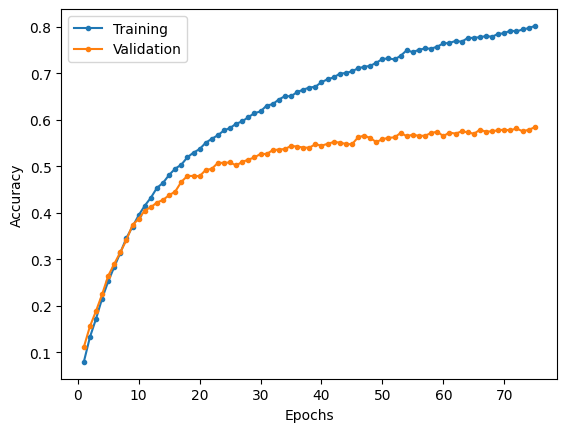
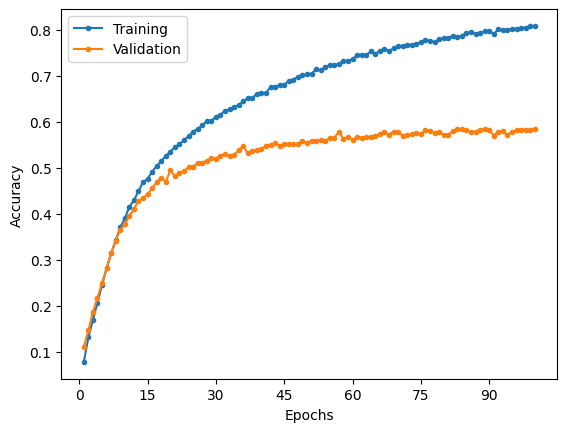
Adds updated training results.

diff --git a/CNN/ResNet/README.md b/CNN/ResNet/README.md
@@ -468,7 +468,7 @@ Similar to all the preceding models, ResNet performs with close the human accura
 
 ### Results
 
-Training over 75 epochs with a learning rate of 1e-4 and batch size of 64.
+Training over 100 epochs with a learning rate of 1e-4, weight decay of 0.01 and batch size of 64.
 
 |                         Loss                         |                           Accuracy                           |
 | :--------------------------------------------------: | :----------------------------------------------------------: |
@@ -476,111 +476,111 @@ Training over 75 epochs with a learning rate of 1e-4 and batch size of 64.
 
 |              | Training | Validation | Testing |
 | :----------: | :------: | :--------: | :-----: |
-|     Loss     |  0.7121  |   1.7560   | 1.4217  |
-| Accuracy (%) |  80.17   |   58.39    |  64.69  |
+|     Loss     |  0.7017  |   1.6893   | 1.3544  |
+| Accuracy (%) |  80.81   |   58.53    |  65.26  |
 
 |     Class     | Training Precision | Validation Precision | Testing Precision | Training Recall | Validation Recall | Testing Recall | Training F1 Score | Validation F1 Score | Testing F1 Score |
 | :-----------: | :----------------: | :------------------: | :---------------: | :-------------: | :---------------: | :------------: | :---------------: | :-----------------: | :--------------: |
-|     apple     |       0.8567       |        0.8197        |      0.9697       |     0.8815      |      0.6494       |     0.6400     |      0.8689       |       0.7246        |      0.7711      |
-| aquarium_fish |       0.8650       |        0.5672        |      0.6308       |     0.8698      |      0.8201       |     0.8200     |      0.8674       |       0.6706        |      0.7130      |
-|     baby      |       0.7912       |        0.4367        |      0.4825       |     0.7865      |      0.6329       |     0.6900     |      0.7889       |       0.5168        |      0.5679      |
-|     bear      |       0.7147       |        0.3706        |      0.5000       |     0.6847      |      0.4371       |     0.4300     |      0.6994       |       0.4011        |      0.4624      |
-|    beaver     |       0.7584       |        0.3502        |      0.4222       |     0.7584      |      0.5278       |     0.5700     |      0.7584       |       0.4211        |      0.4851      |
-|      bed      |       0.8018       |        0.5596        |      0.5391       |     0.8262      |      0.6279       |     0.6900     |      0.8138       |       0.5918        |      0.6053      |
-|      bee      |       0.8227       |        0.7822        |      0.8281       |     0.8156      |      0.5163       |     0.5300     |      0.8191       |       0.6220        |      0.6463      |
-|    beetle     |       0.8387       |        0.5892        |      0.6907       |     0.7903      |      0.6374       |     0.6700     |      0.8138       |       0.6124        |      0.6802      |
-|    bicycle    |       0.8519       |        0.6822        |      0.8211       |     0.8470      |      0.5986       |     0.7800     |      0.8494       |       0.6377        |      0.8000      |
-|    bottle     |       0.8311       |        0.8539        |      0.8406       |     0.8564      |      0.5507       |     0.5800     |      0.8435       |       0.6696        |      0.6864      |
-|     bowl      |       0.7591       |        0.3935        |      0.4563       |     0.6970      |      0.3588       |     0.4700     |      0.7267       |       0.3754        |      0.4631      |
-|      boy      |       0.7744       |        0.3871        |      0.4234       |     0.7056      |      0.4286       |     0.4700     |      0.7384       |       0.4068        |      0.4455      |
-|    bridge     |       0.8480       |        0.5689        |      0.6124       |     0.8158      |      0.6013       |     0.7900     |      0.8316       |       0.5846        |      0.6900      |
-|      bus      |       0.7744       |        0.6383        |      0.6579       |     0.7537      |      0.5521       |     0.5000     |      0.7639       |       0.5921        |      0.5682      |
-|   butterfly   |       0.8661       |        0.6270        |      0.6304       |     0.8588      |      0.5411       |     0.5800     |      0.8624       |       0.5809        |      0.6042      |
-|     camel     |       0.8163       |        0.7525        |      0.7568       |     0.7994      |      0.4720       |     0.5600     |      0.8077       |       0.5802        |      0.6437      |
-|      can      |       0.8230       |        0.5864        |      0.6792       |     0.8064      |      0.6169       |     0.7200     |      0.8146       |       0.6013        |      0.6990      |
-|    castle     |       0.8534       |        0.6626        |      0.8721       |     0.8366      |      0.7448       |     0.7500     |      0.8450       |       0.7013        |      0.8065      |
-|  caterpillar  |       0.7738       |        0.4774        |      0.6322       |     0.7955      |      0.5175       |     0.5500     |      0.7845       |       0.4966        |      0.5882      |
-|    cattle     |       0.7972       |        0.5476        |      0.6522       |     0.7949      |      0.4792       |     0.6000     |      0.7961       |       0.5111        |      0.6250      |
-|     chair     |       0.8631       |        0.8073        |      0.8506       |     0.8729      |      0.6027       |     0.7400     |      0.8680       |       0.6902        |      0.7914      |
-|  chimpanzee   |       0.8141       |        0.6933        |      0.8387       |     0.8353      |      0.6753       |     0.7800     |      0.8245       |       0.6842        |      0.8083      |
-|     clock     |       0.8902       |        0.5850        |      0.7204       |     0.8380      |      0.6056       |     0.6700     |      0.8633       |       0.5952        |      0.6943      |
-|     cloud     |       0.7619       |        0.6168        |      0.7596       |     0.8612      |      0.7007       |     0.7900     |      0.8085       |       0.6561        |      0.7745      |
-|   cockroach   |       0.8610       |        0.7400        |      0.7524       |     0.8876      |      0.7708       |     0.7900     |      0.8741       |       0.7551        |      0.7707      |
-|     couch     |       0.7672       |        0.4043        |      0.4745       |     0.7500      |      0.5278       |     0.6500     |      0.7585       |       0.4578        |      0.5485      |
-|     crab      |       0.7393       |        0.5500        |      0.6977       |     0.7611      |      0.4783       |     0.6000     |      0.7500       |       0.5116        |      0.6452      |
-|   crocodile   |       0.7597       |        0.3478        |      0.3931       |     0.7746      |      0.5517       |     0.5700     |      0.7671       |       0.4267        |      0.4653      |
-|      cup      |       0.7978       |        0.6774        |      0.7419       |     0.8090      |      0.5833       |     0.6900     |      0.8033       |       0.6269        |      0.7150      |
-|   dinosaur    |       0.8192       |        0.4479        |      0.6075       |     0.8016      |      0.5748       |     0.6500     |      0.8103       |       0.5034        |      0.6280      |
-|    dolphin    |       0.7982       |        0.5446        |      0.5496       |     0.7910      |      0.6667       |     0.7200     |      0.7946       |       0.5995        |      0.6234      |
-|   elephant    |       0.7438       |        0.5914        |      0.6961       |     0.7826      |      0.7097       |     0.7100     |      0.7627       |       0.6452        |      0.7030      |
-|   flatfish    |       0.7803       |        0.6395        |      0.7429       |     0.7670      |      0.3716       |     0.5200     |      0.7736       |       0.4701        |      0.6118      |
-|    forest     |       0.7310       |        0.4722        |      0.5280       |     0.7642      |      0.5743       |     0.6600     |      0.7472       |       0.5183        |      0.5867      |
-|      fox      |       0.8343       |        0.7000        |      0.7579       |     0.8177      |      0.6107       |     0.7200     |      0.8259       |       0.6523        |      0.7385      |
-|     girl      |       0.7319       |        0.5050        |      0.4545       |     0.6963      |      0.3377       |     0.3500     |      0.7137       |       0.4048        |      0.3955      |
-|    hamster    |       0.8493       |        0.7500        |      0.8205       |     0.8592      |      0.6792       |     0.6400     |      0.8542       |       0.7129        |      0.7191      |
-|     house     |       0.7826       |        0.4656        |      0.6356       |     0.7649      |      0.5986       |     0.7500     |      0.7736       |       0.5238        |      0.6881      |
-|   kangaroo    |       0.7708       |        0.4313        |      0.4634       |     0.7801      |      0.5417       |     0.5700     |      0.7754       |       0.4802        |      0.5112      |
-|   keyboard    |       0.8560       |        0.7426        |      0.8352       |     0.8726      |      0.7266       |     0.7600     |      0.8642       |       0.7345        |      0.7958      |
-|     lamp      |       0.7556       |        0.4437        |      0.4560       |     0.7452      |      0.4820       |     0.5700     |      0.7503       |       0.4621        |      0.5067      |
-|  lawn_mower   |       0.8642       |        0.7794        |      0.8764       |     0.8768      |      0.6667       |     0.7800     |      0.8705       |       0.7186        |      0.8254      |
-|    leopard    |       0.8251       |        0.8000        |      0.6548       |     0.8203      |      0.4903       |     0.5500     |      0.8227       |       0.6080        |      0.5978      |
-|     lion      |       0.8216       |        0.6719        |      0.7634       |     0.8363      |      0.7866       |     0.7100     |      0.8289       |       0.7247        |      0.7358      |
-|    lizard     |       0.7556       |        0.3702        |      0.3913       |     0.7015      |      0.4061       |     0.4500     |      0.7276       |       0.3873        |      0.4186      |
-|    lobster    |       0.7527       |        0.4011        |      0.4818       |     0.7507      |      0.5407       |     0.5300     |      0.7517       |       0.4606        |      0.5048      |
-|      man      |       0.7544       |        0.5040        |      0.6000       |     0.7286      |      0.4200       |     0.4800     |      0.7413       |       0.4582        |      0.5333      |
-|  maple_tree   |       0.7353       |        0.7292        |      0.5814       |     0.7246      |      0.4516       |     0.5000     |      0.7299       |       0.5578        |      0.5376      |
-|  motorcycle   |       0.8576       |        0.8244        |      0.8958       |     0.8679      |      0.6467       |     0.8600     |      0.8627       |       0.7248        |      0.8776      |
-|   mountain    |       0.8108       |        0.6667        |      0.8280       |     0.8197      |      0.5970       |     0.7700     |      0.8152       |       0.6299        |      0.7979      |
-|     mouse     |       0.7710       |        0.3298        |      0.3761       |     0.7228      |      0.4773       |     0.4400     |      0.7461       |       0.3901        |      0.4055      |
-|   mushroom    |       0.8287       |        0.4824        |      0.6765       |     0.8427      |      0.5694       |     0.6900     |      0.8357       |       0.5223        |      0.6832      |
-|   oak_tree    |       0.7016       |        0.6071        |      0.5657       |     0.7394      |      0.5782       |     0.5600     |      0.7200       |       0.5923        |      0.5628      |
-|    orange     |       0.9139       |        0.6957        |      0.7692       |     0.9139      |      0.9143       |     0.9000     |      0.9139       |       0.7901        |      0.8295      |
-|    orchid     |       0.8710       |        0.7218        |      0.6972       |     0.8510      |      0.6358       |     0.7600     |      0.8609       |       0.6761        |      0.7273      |
-|     otter     |       0.7188       |        0.3041        |      0.4144       |     0.7087      |      0.3147       |     0.4600     |      0.7137       |       0.3093        |      0.4360      |
-|   palm_tree   |       0.8384       |        0.8689        |      0.9101       |     0.8674      |      0.6928       |     0.8100     |      0.8527       |       0.7709        |      0.8571      |
-|     pear      |       0.8279       |        0.6243        |      0.5714       |     0.8353      |      0.6807       |     0.7200     |      0.8316       |       0.6513        |      0.6372      |
-| pickup_truck  |       0.8394       |        0.7250        |      0.8427       |     0.8293      |      0.6988       |     0.7500     |      0.8343       |       0.7117        |      0.7937      |
-|   pine_tree   |       0.6875       |        0.5536        |      0.7051       |     0.7008      |      0.4460       |     0.5500     |      0.6941       |       0.4940        |      0.6180      |
-|     plain     |       0.7888       |        0.7167        |      0.8652       |     0.8447      |      0.6466       |     0.7700     |      0.8158       |       0.6798        |      0.8148      |
-|     plate     |       0.7890       |        0.5795        |      0.6739       |     0.8248      |      0.6036       |     0.6200     |      0.8065       |       0.5913        |      0.6458      |
-|     poppy     |       0.8676       |        0.6585        |      0.7447       |     0.8627      |      0.5664       |     0.7000     |      0.8652       |       0.6090        |      0.7216      |
-|   porcupine   |       0.7820       |        0.7021        |      0.6707       |     0.7775      |      0.6429       |     0.5500     |      0.7797       |       0.6712        |      0.6044      |
-|    possum     |       0.7872       |        0.4790        |      0.5600       |     0.7606      |      0.5517       |     0.5600     |      0.7736       |       0.5128        |      0.5600      |
-|    rabbit     |       0.7695       |        0.3707        |      0.4034       |     0.7493      |      0.4841       |     0.4800     |      0.7592       |       0.4199        |      0.4384      |
-|    raccoon    |       0.8410       |        0.8224        |      0.8630       |     0.8338      |      0.5828       |     0.6300     |      0.8374       |       0.6822        |      0.7283      |
-|      ray      |       0.7500       |        0.4638        |      0.5165       |     0.7793      |      0.4507       |     0.4700     |      0.7644       |       0.4571        |      0.4921      |
-|     road      |       0.8156       |        0.8013        |      0.8411       |     0.8513      |      0.7707       |     0.9000     |      0.8331       |       0.7857        |      0.8696      |
-|    rocket     |       0.8305       |        0.6412        |      0.6981       |     0.8401      |      0.6987       |     0.7400     |      0.8353       |       0.6687        |      0.7184      |
-|     rose      |       0.8300       |        0.6136        |      0.6694       |     0.8420      |      0.7105       |     0.8300     |      0.8359       |       0.6585        |      0.7411      |
-|      sea      |       0.8184       |        0.7661        |      0.7907       |     0.8412      |      0.6738       |     0.6800     |      0.8297       |       0.7170        |      0.7312      |
-|     seal      |       0.6936       |        0.5094        |      0.6538       |     0.6785      |      0.2030       |     0.3400     |      0.6860       |       0.2903        |      0.4474      |
-|     shark     |       0.7305       |        0.5817        |      0.5833       |     0.7649      |      0.4917       |     0.4200     |      0.7473       |       0.5329        |      0.4884      |
-|     shrew     |       0.7582       |        0.4067        |      0.4077       |     0.7278      |      0.4040       |     0.5300     |      0.7427       |       0.4053        |      0.4609      |
-|     skunk     |       0.8299       |        0.6685        |      0.8036       |     0.8203      |      0.7677       |     0.9000     |      0.8251       |       0.7147        |      0.8491      |
-|  skyscraper   |       0.8296       |        0.8130        |      0.8218       |     0.8510      |      0.6623       |     0.8300     |      0.8402       |       0.7299        |      0.8259      |
-|     snail     |       0.8452       |        0.6884        |      0.5851       |     0.8077      |      0.5864       |     0.5500     |      0.8260       |       0.6333        |      0.5670      |
-|     snake     |       0.7994       |        0.4066        |      0.4776       |     0.7863      |      0.5481       |     0.6400     |      0.7928       |       0.4669        |      0.5470      |
-|    spider     |       0.8076       |        0.4865        |      0.5873       |     0.7926      |      0.5806       |     0.7400     |      0.8000       |       0.5294        |      0.6549      |
-|   squirrel    |       0.7867       |        0.5872        |      0.5714       |     0.7889      |      0.4571       |     0.4400     |      0.7878       |       0.5141        |      0.4972      |
-|   streetcar   |       0.7452       |        0.5946        |      0.5905       |     0.7535      |      0.6154       |     0.6200     |      0.7493       |       0.6048        |      0.6049      |
-|   sunflower   |       0.9278       |        0.8243        |      0.9010       |     0.9252      |      0.8777       |     0.9100     |      0.9265       |       0.8502        |      0.9055      |
-| sweet_pepper  |       0.8367       |        0.6420        |      0.6087       |     0.8319      |      0.6710       |     0.5600     |      0.8343       |       0.6562        |      0.5833      |
-|     table     |       0.7944       |        0.4967        |      0.6026       |     0.7500      |      0.4750       |     0.4700     |      0.7716       |       0.4856        |      0.5281      |
-|     tank      |       0.8217       |        0.7864        |      0.8816       |     0.8453      |      0.5364       |     0.6700     |      0.8333       |       0.6378        |      0.7614      |
-|   telephone   |       0.8446       |        0.7676        |      0.8250       |     0.8496      |      0.6770       |     0.6600     |      0.8471       |       0.7195        |      0.7333      |
-|  television   |       0.7845       |        0.5959        |      0.6325       |     0.8232      |      0.5613       |     0.7400     |      0.8034       |       0.5781        |      0.6820      |
-|     tiger     |       0.8352       |        0.7410        |      0.7157       |     0.8375      |      0.7203       |     0.7300     |      0.8364       |       0.7305        |      0.7228      |
-|    tractor    |       0.8347       |        0.5375        |      0.7757       |     0.8209      |      0.6277       |     0.8300     |      0.8278       |       0.5791        |      0.8019      |
-|     train     |       0.7957       |        0.5655        |      0.5442       |     0.7861      |      0.4881       |     0.8000     |      0.7909       |       0.5240        |      0.6478      |
-|     trout     |       0.8390       |        0.6870        |      0.7383       |     0.8559      |      0.5882       |     0.7900     |      0.8474       |       0.6338        |      0.7633      |
-|     tulip     |       0.7935       |        0.6720        |      0.7568       |     0.7708      |      0.5563       |     0.5600     |      0.7820       |       0.6087        |      0.6437      |
-|    turtle     |       0.8058       |        0.4462        |      0.6538       |     0.7473      |      0.4531       |     0.5100     |      0.7755       |       0.4496        |      0.5730      |
-|   wardrobe    |       0.8740       |        0.7857        |      0.9022       |     0.9106      |      0.7746       |     0.8300     |      0.8919       |       0.7801        |      0.8646      |
-|     whale     |       0.7472       |        0.6842        |      0.6742       |     0.7946      |      0.6923       |     0.6000     |      0.7701       |       0.6882        |      0.6349      |
-|  willow_tree  |       0.7162       |        0.4286        |      0.4755       |     0.7486      |      0.5959       |     0.6800     |      0.7320       |       0.4986        |      0.5597      |
-|     wolf      |       0.8106       |        0.5796        |      0.6161       |     0.8174      |      0.6319       |     0.6900     |      0.8140       |       0.6047        |      0.6509      |
-|     woman     |       0.7479       |        0.4790        |      0.5385       |     0.7335      |      0.4191       |     0.4900     |      0.7406       |       0.4471        |      0.5131      |
-|     worm      |       0.7725       |        0.5369        |      0.6036       |     0.7956      |      0.6015       |     0.6700     |      0.7839       |       0.5674        |      0.6351      |
+|     apple     |       0.8644       |        0.7838        |      0.8966       |     0.8571      |      0.8112       |     0.7800     |      0.8608       |       0.7973        |      0.8342      |
+| aquarium_fish |       0.8512       |        0.6867        |      0.7849       |     0.8563      |      0.6867       |     0.7300     |      0.8537       |       0.6867        |      0.7565      |
+|     baby      |       0.7942       |        0.4525        |      0.5085       |     0.8035      |      0.5094       |     0.6000     |      0.7988       |       0.4793        |      0.5505      |
+|     bear      |       0.7173       |        0.3372        |      0.5086       |     0.7326      |      0.4603       |     0.5900     |      0.7249       |       0.3893        |      0.5463      |
+|    beaver     |       0.7657       |        0.4444        |      0.4275       |     0.7571      |      0.4658       |     0.5900     |      0.7614       |       0.4548        |      0.4958      |
+|      bed      |       0.8057       |        0.5779        |      0.5781       |     0.7966      |      0.6096       |     0.7400     |      0.8011       |       0.5933        |      0.6491      |
+|      bee      |       0.8627       |        0.6013        |      0.6952       |     0.8576      |      0.5644       |     0.7300     |      0.8601       |       0.5823        |      0.7122      |
+|    beetle     |       0.8248       |        0.5377        |      0.8140       |     0.8117      |      0.4634       |     0.7000     |      0.8182       |       0.4978        |      0.7527      |
+|    bicycle    |       0.8211       |        0.7518        |      0.8352       |     0.8309      |      0.6503       |     0.7600     |      0.8260       |       0.6974        |      0.7958      |
+|    bottle     |       0.8609       |        0.6037        |      0.6909       |     0.8366      |      0.6828       |     0.7600     |      0.8486       |       0.6408        |      0.7238      |
+|     bowl      |       0.7735       |        0.2402        |      0.3664       |     0.7388      |      0.3819       |     0.4800     |      0.7557       |       0.2949        |      0.4156      |
+|      boy      |       0.7357       |        0.3832        |      0.4409       |     0.7000      |      0.4267       |     0.4100     |      0.7174       |       0.4038        |      0.4249      |
+|    bridge     |       0.8129       |        0.5202        |      0.5865       |     0.7817      |      0.5590       |     0.7800     |      0.7970       |       0.5389        |      0.6695      |
+|      bus      |       0.7965       |        0.5556        |      0.6795       |     0.7762      |      0.5102       |     0.5300     |      0.7862       |       0.5319        |      0.5955      |
+|   butterfly   |       0.8382       |        0.6435        |      0.7059       |     0.8262      |      0.4966       |     0.4800     |      0.8321       |       0.5606        |      0.5714      |
+|     camel     |       0.8209       |        0.6389        |      0.7297       |     0.7902      |      0.4539       |     0.5400     |      0.8053       |       0.5308        |      0.6207      |
+|      can      |       0.8235       |        0.6200        |      0.6339       |     0.7865      |      0.6458       |     0.7100     |      0.8046       |       0.6327        |      0.6698      |
+|    castle     |       0.8489       |        0.6705        |      0.7767       |     0.8704      |      0.8000       |     0.8000     |      0.8595       |       0.7296        |      0.7882      |
+|  caterpillar  |       0.7845       |        0.6636        |      0.6528       |     0.8023      |      0.5000       |     0.4700     |      0.7933       |       0.5703        |      0.5465      |
+|    cattle     |       0.8514       |        0.4891        |      0.5743       |     0.8209      |      0.5455       |     0.5800     |      0.8359       |       0.5158        |      0.5771      |
+|     chair     |       0.8768       |        0.7838        |      0.8454       |     0.8895      |      0.7436       |     0.8200     |      0.8831       |       0.7632        |      0.8325      |
+|  chimpanzee   |       0.8044       |        0.6909        |      0.7822       |     0.8367      |      0.7550       |     0.7900     |      0.8202       |       0.7215        |      0.7861      |
+|     clock     |       0.8659       |        0.6107        |      0.6667       |     0.8319      |      0.5594       |     0.6400     |      0.8486       |       0.5839        |      0.6531      |
+|     cloud     |       0.7426       |        0.6358        |      0.8182       |     0.8608      |      0.6486       |     0.7200     |      0.7974       |       0.6421        |      0.7660      |
+|   cockroach   |       0.8780       |        0.8099        |      0.8037       |     0.9025      |      0.8156       |     0.8600     |      0.8901       |       0.8127        |      0.8309      |
+|     couch     |       0.7683       |        0.5423        |      0.5854       |     0.7326      |      0.4936       |     0.4800     |      0.7500       |       0.5168        |      0.5275      |
+|     crab      |       0.8095       |        0.4378        |      0.4485       |     0.7640      |      0.5625       |     0.6100     |      0.7861       |       0.4924        |      0.5169      |
+|   crocodile   |       0.7326       |        0.4887        |      0.4904       |     0.8028      |      0.4483       |     0.5100     |      0.7661       |       0.4676        |      0.5000      |
+|      cup      |       0.7914       |        0.5425        |      0.7064       |     0.7781      |      0.5764       |     0.7700     |      0.7847       |       0.5589        |      0.7368      |
+|   dinosaur    |       0.7865       |        0.5143        |      0.8052       |     0.7887      |      0.4966       |     0.6200     |      0.7876       |       0.5053        |      0.7006      |
+|    dolphin    |       0.7736       |        0.4774        |      0.5680       |     0.7972      |      0.6786       |     0.7100     |      0.7852       |       0.5605        |      0.6311      |
+|   elephant    |       0.7692       |        0.6984        |      0.8293       |     0.8046      |      0.5789       |     0.6800     |      0.7865       |       0.6331        |      0.7473      |
+|   flatfish    |       0.8017       |        0.5246        |      0.7042       |     0.7926      |      0.4324       |     0.5000     |      0.7971       |       0.4741        |      0.5848      |
+|    forest     |       0.7439       |        0.5101        |      0.5340       |     0.7756      |      0.5135       |     0.5500     |      0.7594       |       0.5118        |      0.5419      |
+|      fox      |       0.8718       |        0.4972        |      0.6435       |     0.8361      |      0.6567       |     0.7400     |      0.8536       |       0.5659        |      0.6884      |
+|     girl      |       0.7567       |        0.4522        |      0.4557       |     0.7083      |      0.3714       |     0.3600     |      0.7317       |       0.4078        |      0.4022      |
+|    hamster    |       0.8719       |        0.7279        |      0.8182       |     0.8743      |      0.6972       |     0.7200     |      0.8731       |       0.7122        |      0.7660      |
+|     house     |       0.7863       |        0.6545        |      0.6889       |     0.7886      |      0.4800       |     0.6200     |      0.7874       |       0.5538        |      0.6526      |
+|   kangaroo    |       0.8142       |        0.4750        |      0.5455       |     0.8070      |      0.4810       |     0.6000     |      0.8106       |       0.4780        |      0.5714      |
+|   keyboard    |       0.8822       |        0.7794        |      0.8929       |     0.9122      |      0.7211       |     0.7500     |      0.8969       |       0.7491        |      0.8152      |
+|     lamp      |       0.8142       |        0.4248        |      0.6100       |     0.7931      |      0.4276       |     0.6100     |      0.8035       |       0.4262        |      0.6100      |
+|  lawn_mower   |       0.8457       |        0.7759        |      0.8269       |     0.8689      |      0.7849       |     0.8600     |      0.8571       |       0.7803        |      0.8431      |
+|    leopard    |       0.8174       |        0.6116        |      0.6768       |     0.8011      |      0.5000       |     0.6700     |      0.8092       |       0.5502        |      0.6734      |
+|     lion      |       0.8302       |        0.7059        |      0.8085       |     0.8676      |      0.6621       |     0.7600     |      0.8485       |       0.6833        |      0.7835      |
+|    lizard     |       0.7969       |        0.4750        |      0.3614       |     0.7413      |      0.3654       |     0.3000     |      0.7681       |       0.4130        |      0.3279      |
+|    lobster    |       0.7884       |        0.6914        |      0.7895       |     0.7884      |      0.3613       |     0.4500     |      0.7884       |       0.4746        |      0.5732      |
+|      man      |       0.7587       |        0.4146        |      0.4298       |     0.7311      |      0.4755       |     0.5200     |      0.7447       |       0.4430        |      0.4706      |
+|  maple_tree   |       0.7388       |        0.5635        |      0.6000       |     0.7507      |      0.5591       |     0.6000     |      0.7447       |       0.5613        |      0.6000      |
+|  motorcycle   |       0.8381       |        0.6948        |      0.8544       |     0.8526      |      0.6948       |     0.8800     |      0.8453       |       0.6948        |      0.8670      |
+|   mountain    |       0.8220       |        0.6066        |      0.6885       |     0.8338      |      0.7351       |     0.8400     |      0.8279       |       0.6647        |      0.7568      |
+|     mouse     |       0.7395       |        0.4765        |      0.4615       |     0.6977      |      0.4863       |     0.4800     |      0.7180       |       0.4814        |      0.4706      |
+|   mushroom    |       0.7919       |        0.5882        |      0.6518       |     0.8300      |      0.6122       |     0.7300     |      0.8105       |       0.6000        |      0.6887      |
+|   oak_tree    |       0.7118       |        0.5181        |      0.5164       |     0.7655      |      0.6667       |     0.6300     |      0.7377       |       0.5831        |      0.5676      |
+|    orange     |       0.8886       |        0.7966        |      0.8491       |     0.9355      |      0.8868       |     0.9000     |      0.9114       |       0.8393        |      0.8738      |
+|    orchid     |       0.8986       |        0.6913        |      0.7959       |     0.8960      |      0.6688       |     0.7800     |      0.8973       |       0.6799        |      0.7879      |
+|     otter     |       0.7147       |        0.3551        |      0.3924       |     0.6979      |      0.2390       |     0.3100     |      0.7062       |       0.2857        |      0.3464      |
+|   palm_tree   |       0.8494       |        0.7162        |      0.7768       |     0.8319      |      0.6584       |     0.8700     |      0.8405       |       0.6861        |      0.8208      |
+|     pear      |       0.8333       |        0.7179        |      0.7931       |     0.8475      |      0.5753       |     0.6900     |      0.8403       |       0.6388        |      0.7380      |
+| pickup_truck  |       0.8713       |        0.7415        |      0.7660       |     0.8509      |      0.6899       |     0.7200     |      0.8609       |       0.7148        |      0.7423      |
+|   pine_tree   |       0.7602       |        0.4590        |      0.6625       |     0.7386      |      0.5676       |     0.5300     |      0.7493       |       0.5076        |      0.5889      |
+|     plain     |       0.7840       |        0.6821        |      0.8081       |     0.8099      |      0.7518       |     0.8000     |      0.7967       |       0.7153        |      0.8040      |
+|     plate     |       0.8174       |        0.6644        |      0.7216       |     0.8386      |      0.6471       |     0.7000     |      0.8279       |       0.6556        |      0.7107      |
+|     poppy     |       0.8436       |        0.6711        |      0.6637       |     0.8555      |      0.6939       |     0.7500     |      0.8495       |       0.6823        |      0.7042      |
+|   porcupine   |       0.7535       |        0.6875        |      0.7206       |     0.8054      |      0.5964       |     0.4900     |      0.7786       |       0.6387        |      0.5833      |
+|    possum     |       0.7787       |        0.6133        |      0.6180       |     0.7853      |      0.6301       |     0.5500     |      0.7820       |       0.6216        |      0.5820      |
+|    rabbit     |       0.7847       |        0.5133        |      0.5275       |     0.7803      |      0.4000       |     0.4800     |      0.7825       |       0.4496        |      0.5026      |
+|    raccoon    |       0.8423       |        0.8980        |      0.8289       |     0.8018      |      0.5269       |     0.6300     |      0.8215       |       0.6642        |      0.7159      |
+|      ray      |       0.7607       |        0.5755        |      0.5059       |     0.7425      |      0.4819       |     0.4300     |      0.7515       |       0.5246        |      0.4649      |
+|     road      |       0.8347       |        0.6829        |      0.8103       |     0.8442      |      0.7619       |     0.9400     |      0.8394       |       0.7203        |      0.8704      |
+|    rocket     |       0.8405       |        0.7833        |      0.7791       |     0.8567      |      0.6861       |     0.6700     |      0.8486       |       0.7315        |      0.7204      |
+|     rose      |       0.8552       |        0.7203        |      0.8068       |     0.8716      |      0.6343       |     0.7100     |      0.8633       |       0.6746        |      0.7553      |
+|      sea      |       0.7702       |        0.6462        |      0.7386       |     0.8333      |      0.5753       |     0.6500     |      0.8005       |       0.6087        |      0.6915      |
+|     seal      |       0.7560       |        0.2064        |      0.2391       |     0.6953      |      0.4173       |     0.4400     |      0.7244       |       0.2762        |      0.3099      |
+|     shark     |       0.8040       |        0.5153        |      0.5175       |     0.8251      |      0.5350       |     0.5900     |      0.8144       |       0.5250        |      0.5514      |
+|     shrew     |       0.7263       |        0.4885        |      0.5050       |     0.7471      |      0.4211       |     0.5100     |      0.7365       |       0.4523        |      0.5075      |
+|     skunk     |       0.8418       |        0.8125        |      0.8687       |     0.8393      |      0.7134       |     0.8600     |      0.8405       |       0.7597        |      0.8643      |
+|  skyscraper   |       0.8046       |        0.6722        |      0.7885       |     0.8358      |      0.7333       |     0.8200     |      0.8199       |       0.7014        |      0.8039      |
+|     snail     |       0.8409       |        0.5307        |      0.5164       |     0.8315      |      0.6597       |     0.6300     |      0.8362       |       0.5882        |      0.5676      |
+|     snake     |       0.7977       |        0.4432        |      0.4900       |     0.7839      |      0.5098       |     0.4900     |      0.7907       |       0.4742        |      0.4900      |
+|    spider     |       0.7759       |        0.6508        |      0.5929       |     0.7781      |      0.5359       |     0.6700     |      0.7770       |       0.5878        |      0.6291      |
+|   squirrel    |       0.7834       |        0.4833        |      0.5070       |     0.7374      |      0.4085       |     0.3600     |      0.7597       |       0.4427        |      0.4211      |
+|   streetcar   |       0.8168       |        0.6389        |      0.6869       |     0.8043      |      0.5318       |     0.6800     |      0.8105       |       0.5804        |      0.6834      |
+|   sunflower   |       0.9312       |        0.8968        |      0.9457       |     0.9312      |      0.7483       |     0.8700     |      0.9312       |       0.8159        |      0.9062      |
+| sweet_pepper  |       0.8273       |        0.5659        |      0.6857       |     0.8204      |      0.7464       |     0.7200     |      0.8239       |       0.6438        |      0.7024      |
+|     table     |       0.7936       |        0.4145        |      0.5210       |     0.7669      |      0.5556       |     0.6200     |      0.7800       |       0.4748        |      0.5662      |
+|     tank      |       0.8017       |        0.5843        |      0.7453       |     0.8367      |      0.6624       |     0.7900     |      0.8188       |       0.6209        |      0.7670      |
+|   telephone   |       0.8493       |        0.5823        |      0.6737       |     0.8564      |      0.6667       |     0.6400     |      0.8528       |       0.6216        |      0.6564      |
+|  television   |       0.8192       |        0.6899        |      0.7549       |     0.8357      |      0.5817       |     0.7700     |      0.8274       |       0.6312        |      0.7624      |
+|     tiger     |       0.8281       |        0.8071        |      0.8313       |     0.8281      |      0.6278       |     0.6900     |      0.8281       |       0.7063        |      0.7541      |
+|    tractor    |       0.8227       |        0.5361        |      0.6942       |     0.8156      |      0.6797       |     0.8400     |      0.8191       |       0.5994        |      0.7602      |
+|     train     |       0.7804       |        0.5538        |      0.6792       |     0.7601      |      0.4675       |     0.7200     |      0.7701       |       0.5070        |      0.6990      |
+|     trout     |       0.8489       |        0.6333        |      0.7451       |     0.8284      |      0.5984       |     0.7600     |      0.8385       |       0.6154        |      0.7525      |
+|     tulip     |       0.8444       |        0.5337        |      0.6667       |     0.8049      |      0.6397       |     0.6600     |      0.8242       |       0.5819        |      0.6633      |
+|    turtle     |       0.7994       |        0.4961        |      0.6324       |     0.7634      |      0.4345       |     0.4300     |      0.7810       |       0.4632        |      0.5119      |
+|   wardrobe    |       0.8482       |        0.7925        |      0.8980       |     0.9046      |      0.8182       |     0.8800     |      0.8755       |       0.8051        |      0.8889      |
+|     whale     |       0.8265       |        0.6812        |      0.7079       |     0.8169      |      0.6026       |     0.6300     |      0.8216       |       0.6395        |      0.6667      |
+|  willow_tree  |       0.7090       |        0.5119        |      0.4583       |     0.7318      |      0.5478       |     0.5500     |      0.7202       |       0.5292        |      0.5000      |
+|     wolf      |       0.8097       |        0.6374        |      0.6907       |     0.8000      |      0.6606       |     0.6700     |      0.8048       |       0.6488        |      0.6802      |
+|     woman     |       0.7855       |        0.5000        |      0.4811       |     0.7500      |      0.4107       |     0.5100     |      0.7673       |       0.4510        |      0.4951      |
+|     worm      |       0.8105       |        0.5243        |      0.5496       |     0.8323      |      0.6506       |     0.7200     |      0.8213       |       0.5806        |      0.6234      |
 
 The ResNet model performs significantly better than VGG across all datasets, despite the lower parameter counts. Similar to the previous models, ResNet performs better on the test set as opposed to the validation set. Furthermore, the loss graph indicates that the model has begun overfitting and measures such as weight decay may be required to reduce the generalisation gap and potentially increase performance across the validation and test sets.
 
